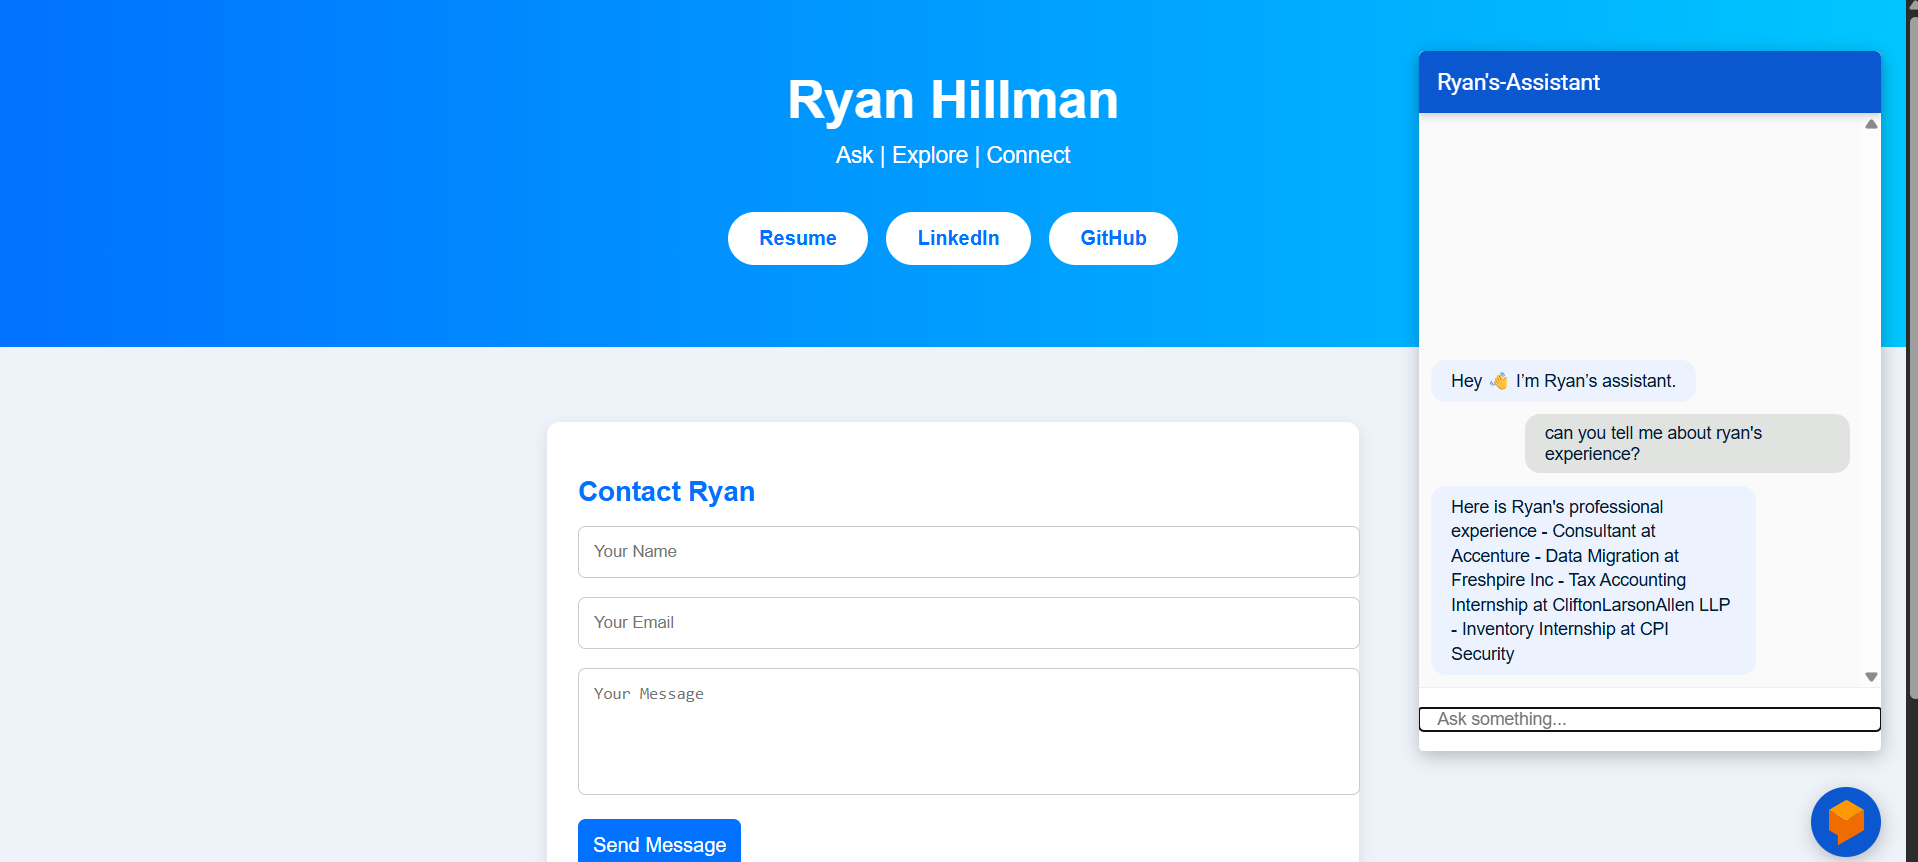
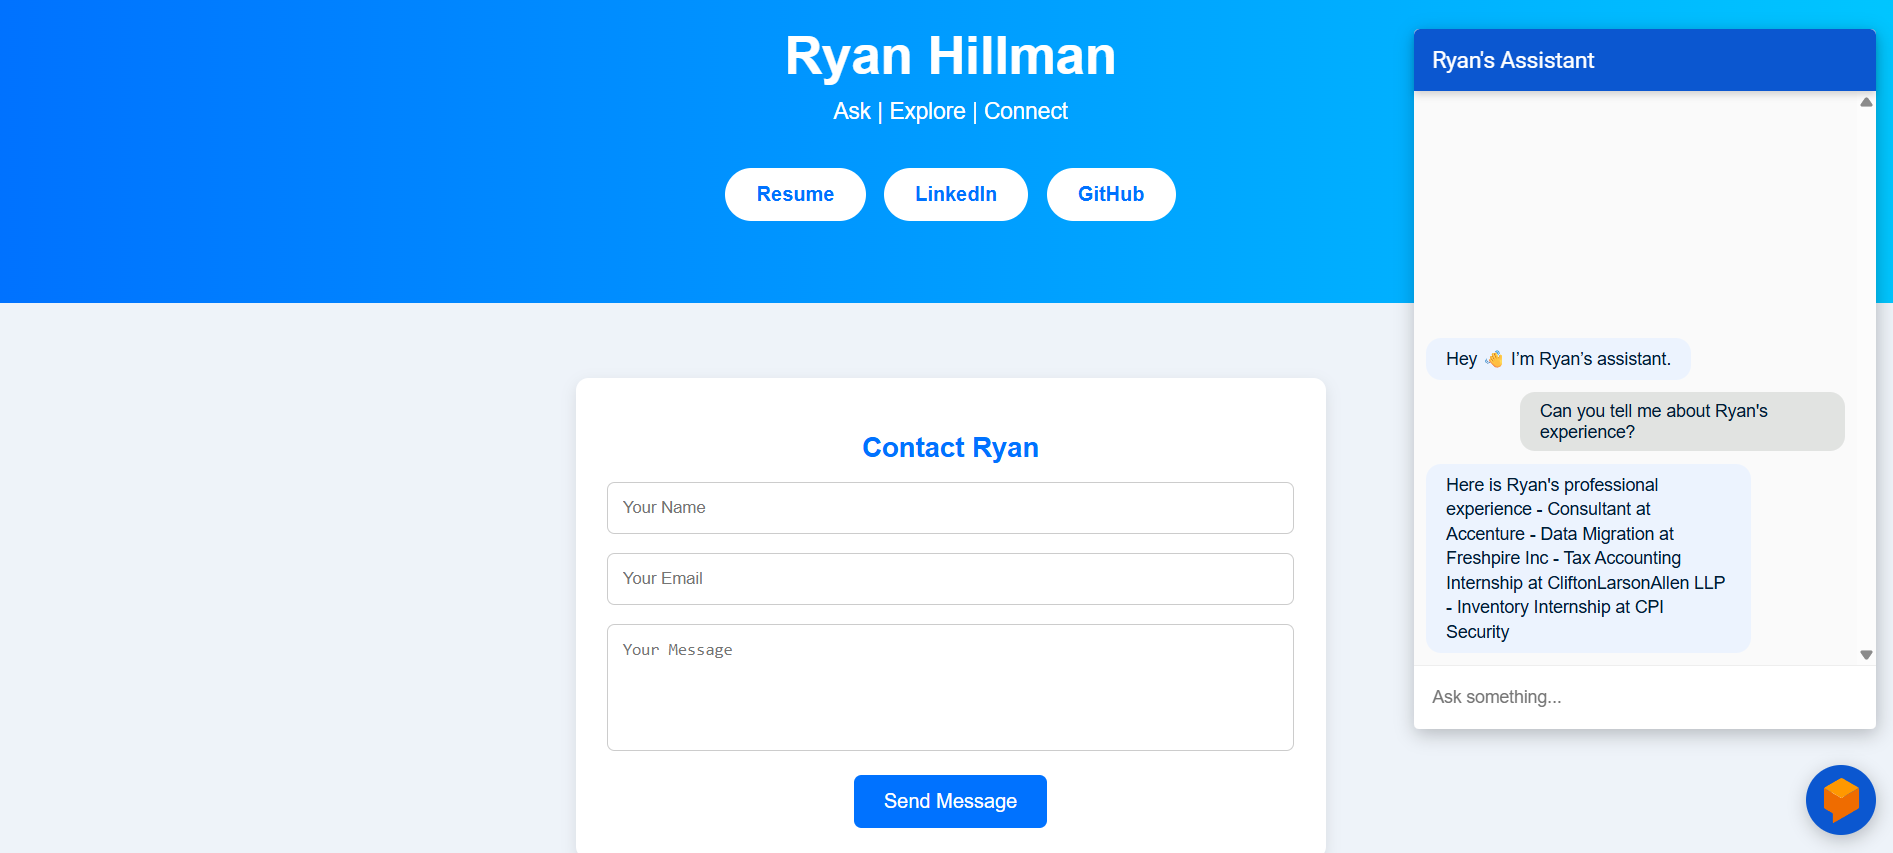
Update demo link, screenshot, and made main.py comments consistent

diff --git a/backend/main.py b/backend/main.py
@@ -51,7 +51,7 @@ def webhook():
                 lines.append(f"- {role} at {company}")
         return jsonify({"fulfillmentText": "\n".join(lines)})
 
-    # ACCENTURE overview
+    # ACCENTURE
     if intent == "Accenture":
         return jsonify({
             "fulfillmentText":
@@ -72,7 +72,7 @@ def webhook():
         text = "Cloud Application Developer for NYCERS\n\n" + "\n".join(f"- {b}" for b in bullets)
         return jsonify({"fulfillmentText": text})
 
-    # BANK OF AMERICA / PEGASYSTEMS
+    # BANK OF AMERICA
     if intent in ["BoA Details", "Bank of America Details", "Pegasystems Support Details"]:
         accenture = next((x for x in data.get("experience", []) if x.get("company") == "Accenture"), {})
         bullets = accenture.get("details", {}).get(
@@ -104,7 +104,7 @@ def webhook():
             return jsonify({"fulfillmentText": "No CPI Security details found."})
         return jsonify({"fulfillmentText": format_experience(job)})
 
-    # SKILLS overview
+    # SKILLS
     if intent == "Skills":
         return jsonify({
             "fulfillmentText":

diff --git a/README.md b/README.md
@@ -9,7 +9,7 @@ This project allows visitors to explore my professional background with a chatbo
 
 ---
 
-## [Demo](https://youtu.be/_BYi5aOAlco)
+## [Demo](https://youtu.be/-dResrRCJoQ)
 
 ---
 